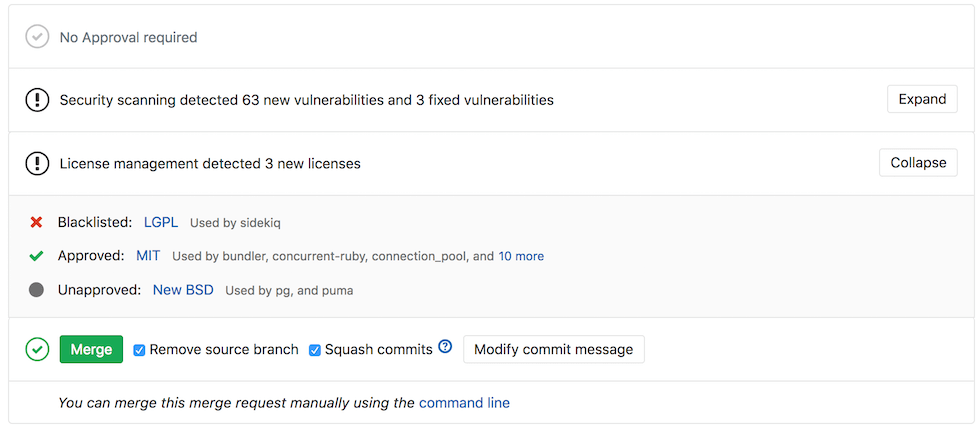
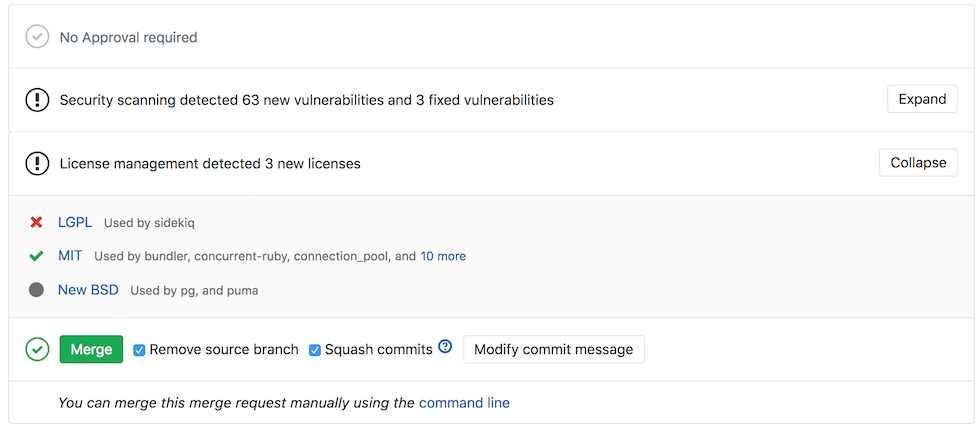
Merge branch 'docs/replace-license-management-image' into 'master'
Replace license_management.png

See merge request gitlab-org/gitlab-ee!6837

Changed region(s): [[0.0612, 0.5744, 0.551, 0.6047], [0.0612, 0.4837, 0.3061, 0.5442], [0.0612, 0.6349, 0.3673, 0.6953]]

diff --git a/doc/user/project/merge_requests/license_management.md b/doc/user/project/merge_requests/license_management.md
@@ -1,4 +1,4 @@
-# License Management
+# License Management **[ULTIMATE]**
 
 > [Introduced][ee-5483] in [GitLab Ultimate][ee] 11.0.
 
